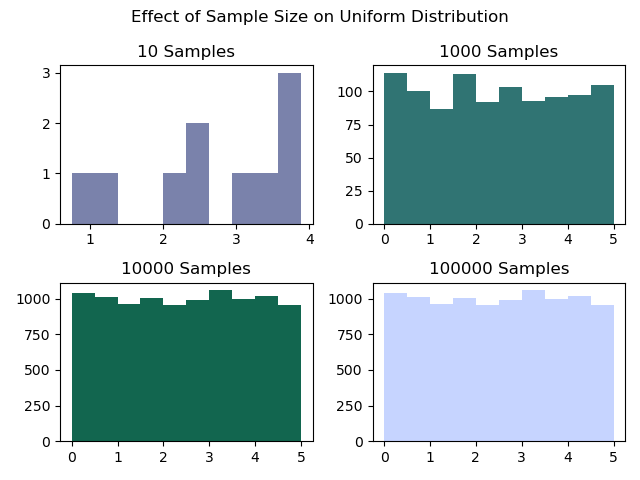
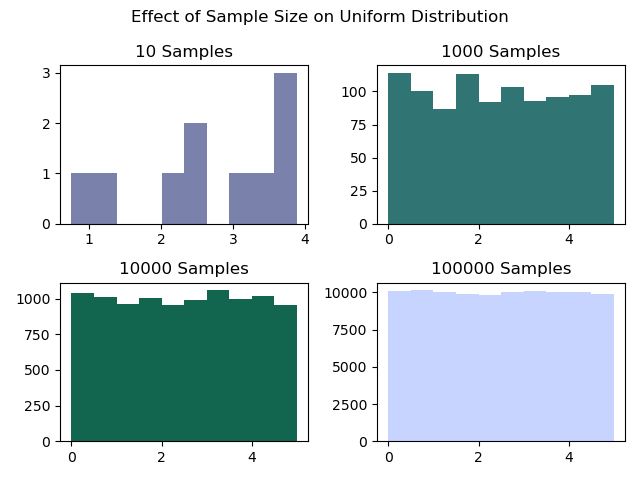
fix chart

diff --git a/simpleRandom.py b/simpleRandom.py
@@ -43,7 +43,7 @@ ax2.hist(ct_uniform1000, color = '#307473')
 ax2.set_title("1000 Samples")
 ax3.hist(ct_uniform10000, color = '#12664F')
 ax3.set_title("10000 Samples")
-ax4.hist(ct_uniform10000, color = '#C6D4FF')
+ax4.hist(ct_uniform100000, color = '#C6D4FF')
 ax4.set_title("100000 Samples")
 plt.tight_layout()
 plt.savefig("ct_uniform distribution.png")
@@ -63,3 +63,8 @@ random_byte_array  = np.random.default_rng().bytes(30)
 print(type(random_byte_array))
 print(random_byte_array)
 print(random_byte_array.decode('ISO-8859-1'))
+
+permute_array = np.arange(10)
+print(permute_array)
+
+print(rng.permutation(permute_array))
